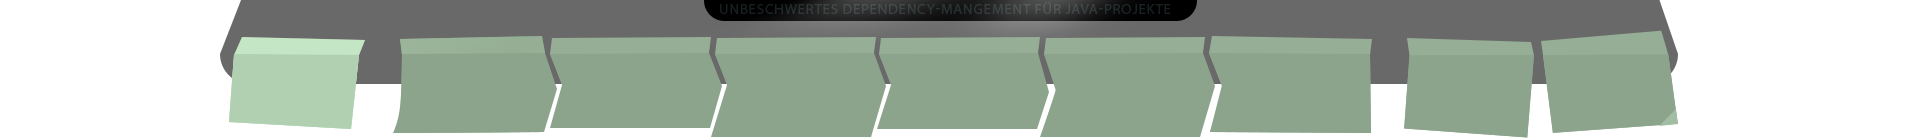
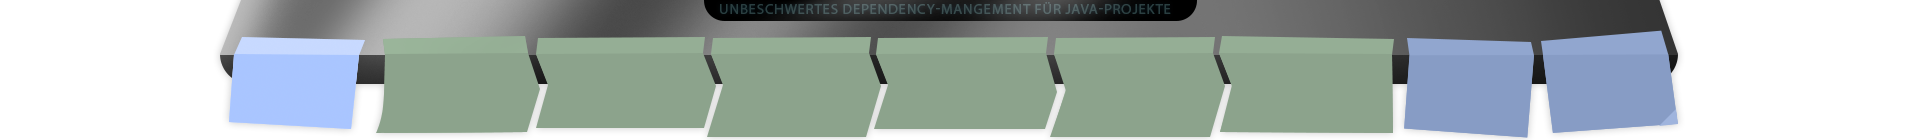
Updated assets

diff --git a/docs/presentation/src/main/java/app/javarcade/presentation/App.java b/docs/presentation/src/main/java/app/javarcade/presentation/App.java
@@ -32,10 +32,13 @@ import javafx.stage.Stage;
 
 import static app.javarcade.presentation.data.JavarcadeProject.APP_ROOT_FOLDER;
 import static app.javarcade.presentation.data.JavarcadeProject.ASSET_LOCATION;
+import static app.javarcade.presentation.ui.UI.BOTTOM_START;
 import static app.javarcade.presentation.ui.UI.EDITOR_WIDTH;
 import static app.javarcade.presentation.ui.UI.GRAPH_WIDTH;
 import static app.javarcade.presentation.ui.UI.HEIGHT;
-import static app.javarcade.presentation.ui.UI.SCREEN_DIM;
+import static app.javarcade.presentation.ui.UI.MIDDLE_CONTENT_HEIGHT;
+import static app.javarcade.presentation.ui.UI.MIDDLE_START;
+import static app.javarcade.presentation.ui.UI.APP_SCREEN_WIDTH;
 import static app.javarcade.presentation.ui.UI.SPACE;
 import static app.javarcade.presentation.ui.UI.TOOLS_WIDTH;
 import static app.javarcade.presentation.ui.UI.TREE_WIDTH;
@@ -48,33 +51,28 @@ public class App extends Application {
 
     @Override
     public void start(Stage stage) {
-        HBox topBox = new HBox(SPACE * 2);
-        topBox.setPrefWidth(WIDTH);
-        ScrollPane topScrollPane = applyScrollPaneStyle(new ScrollPane(topBox));
-        topScrollPane.setHbarPolicy(ScrollPane.ScrollBarPolicy.NEVER);
-        topScrollPane.setVbarPolicy(ScrollPane.ScrollBarPolicy.NEVER);
-        topScrollPane.setFitToHeight(true);
-        topScrollPane.setFitToWidth(false);
-
-        HBox topicsBox = new HBox(10);
-        topicsBox.setPadding(new Insets(SPACE, 0, 0, 0));
+        HBox topicsBox = new HBox(SPACE * 0.5);
         topicsBox.setAlignment(Pos.CENTER);
-        topicsBox.setPrefHeight(140);
+
+        HBox middleBox = new HBox(SPACE * 2);
+        middleBox.setPrefWidth(WIDTH);
+        ScrollPane middleScrollPane = applyScrollPaneStyle(new ScrollPane(middleBox));
+        middleScrollPane.setHbarPolicy(ScrollPane.ScrollBarPolicy.NEVER);
+        middleScrollPane.setVbarPolicy(ScrollPane.ScrollBarPolicy.NEVER);
+        middleScrollPane.setFitToHeight(true);
+        middleScrollPane.setFitToWidth(false);
 
         HBox bottomBox = new HBox(SPACE * 4);
-        VBox root = new VBox(topicsBox, topScrollPane, bottomBox);
-        topBox.setPadding(new Insets(10, SPACE * 3.5, SPACE, SPACE * 3.5));
-        bottomBox.setPadding(new Insets(SPACE * 0.5, SPACE * 10, SPACE, SPACE * 10));
 
         // Boxes in the top row (scrollable)
-        applicationBox = createBox(topBox, SCREEN_DIM, SCREEN_DIM, "APP SCREEN");
-        StackPane moduleGraphBox = createBox(topBox, GRAPH_WIDTH, SCREEN_DIM, "LIB");
-        StackPane projectStructureBox = createBox(topBox, TREE_WIDTH, SCREEN_DIM, "REPOSITORY");
-        StackPane editorsBox = createBox(topBox, EDITOR_WIDTH, SCREEN_DIM, "EDITOR");
+        applicationBox = createBox(middleBox, APP_SCREEN_WIDTH, MIDDLE_CONTENT_HEIGHT, "APP SCREEN");
+        StackPane moduleGraphBox = createBox(middleBox, GRAPH_WIDTH, MIDDLE_CONTENT_HEIGHT, "LIB");
+        StackPane projectStructureBox = createBox(middleBox, TREE_WIDTH, MIDDLE_CONTENT_HEIGHT, "REPOSITORY");
+        StackPane editorsBox = createBox(middleBox, EDITOR_WIDTH, MIDDLE_CONTENT_HEIGHT, "EDITOR");
 
         // Boxes in the bottom row
-        StackPane toolsBox = createBox(bottomBox, TOOLS_WIDTH - SPACE * 4, 20, null);
-        StackPane terminalBox = createBox(bottomBox, 1000, 20, null);
+        StackPane toolsBox = createBox(bottomBox, TOOLS_WIDTH - SPACE * 4, 0, null);
+        StackPane terminalBox = createBox(bottomBox, 1120, 0, null);
 
         ImageView slideView = new ImageView();
         slideView.setFitWidth(1800);
@@ -93,6 +91,20 @@ public class App extends Application {
                 new TopicList(topicsBox, JavarcadeProject.topics(), slideView)
         );
 
+        var root = new StackPane(topicsBox, middleScrollPane, bottomBox);
+        root.setPrefHeight(HEIGHT);
+
+        StackPane.setMargin(middleScrollPane, new Insets(MIDDLE_START, 0, 0, 0));
+        StackPane.setMargin(bottomBox, new Insets(BOTTOM_START, 0, 0, 0));
+
+        middleBox.setPadding(new Insets(5, SPACE * 3.5, 0, SPACE * 3.5));
+        bottomBox.setPadding(new Insets(SPACE, SPACE * 10, 2 * SPACE, SPACE * 10));
+
+        UI.mainBG(root);
+        UI.topicsBG(topicsBox);
+        UI.windowsBG(middleBox);
+        UI.terminalBG(bottomBox);
+
         Scene scene = scalableScene(root, slideView);
         scene.setOnKeyPressed(e -> {
             if (e.getCode() == KeyCode.X) {
@@ -103,21 +115,13 @@ public class App extends Application {
                 }
             }
         });
-
-        root.setPrefHeight(HEIGHT);
-
-        UI.mainBG(root);
-        UI.topicsBG(topicsBox);
-        UI.windowsBG(topBox);
-        UI.terminalBG(bottomBox);
-
         stage.setTitle("Java Modularity");
         stage.setScene(scene);
         stage.setFullScreen(true);
         stage.show();
     }
 
-    private Scene scalableScene(VBox root, ImageView slideView) {
+    private Scene scalableScene(Pane root, ImageView slideView) {
         StackPane pane = new StackPane(root, slideView);
         Group scalableGroup = new Group(pane);
         Scene scene = new Scene(scalableGroup, WIDTH, HEIGHT, Color.BLACK);
@@ -153,7 +157,9 @@ public class App extends Application {
     private StackPane createBox(Pane parent, double width, double height, String label) {
         StackPane inner = new StackPane();
         inner.setPrefWidth(width);
-        inner.setPrefHeight(height);
+        if (height > 0) {
+            inner.setPrefHeight(height);
+        }
 
         Rectangle rectangle = new Rectangle(width, height, Color.TRANSPARENT);
         StackPane stackPane = new StackPane(rectangle, inner);
@@ -165,7 +171,7 @@ public class App extends Application {
             Text labelText = new Text(label);
             labelText.setFont(Font.font("Monospaced", FontWeight.BOLD, 24));
             labelText.setFill(Color.DARKKHAKI);
-            VBox boxWithLabel = new VBox(SPACE * 1.2, labelText, stackPane);
+            VBox boxWithLabel = new VBox(SPACE * 0.5, labelText, stackPane);
             boxWithLabel.setAlignment(Pos.TOP_CENTER);
             parent.getChildren().add(boxWithLabel);
         }

diff --git a/docs/presentation/src/main/java/app/javarcade/presentation/ui/UI.java b/docs/presentation/src/main/java/app/javarcade/presentation/ui/UI.java
@@ -16,11 +16,15 @@ public interface UI {
     int HEIGHT = 1080;
     int SPACE = 20;
 
-    int SCREEN_DIM = 600;
+    int MIDDLE_START = 145;
+    int BOTTOM_START = MIDDLE_START + 680;
+    int MIDDLE_CONTENT_HEIGHT = 625;
+
+    int APP_SCREEN_WIDTH = 600;
     int TOOLS_WIDTH = 300;
     int TREE_WIDTH = 580;
     int GRAPH_WIDTH = 660;
-    int EDITOR_WIDTH = 800;
+    int EDITOR_WIDTH = 880;
 
     static <T extends Node> T applyScrollPaneStyle(T pane) {
         pane.setStyle("-fx-background-color: transparent;" +
@@ -49,7 +53,7 @@ public interface UI {
     }
 
     static void mainBG(Region main) {
-        Image bgImage = layoutImage("bg");
+        Image bgImage = layoutImage("bg.jpg");
         BackgroundImage backgroundImage = new BackgroundImage(
                 bgImage,
                 BackgroundRepeat.NO_REPEAT,
@@ -61,7 +65,7 @@ public interface UI {
     }
 
     static void topicsBG(Region main) {
-        Image bgImage = layoutImage("topics");
+        Image bgImage = layoutImage("topics.png");
         BackgroundImage backgroundImage = new BackgroundImage(
                 bgImage,
                 BackgroundRepeat.NO_REPEAT,
@@ -73,7 +77,7 @@ public interface UI {
     }
 
     static void terminalBG(Region main) {
-        Image bgImage = layoutImage("terminal");
+        Image bgImage = layoutImage("terminal.png");
         BackgroundImage backgroundImage = new BackgroundImage(
                 bgImage,
                 BackgroundRepeat.NO_REPEAT,
@@ -85,7 +89,7 @@ public interface UI {
     }
 
     static void windowsBG(Region main) {
-        Image bgImage = layoutImage("windows");
+        Image bgImage = layoutImage("windows.png");
         BackgroundImage backgroundImage = new BackgroundImage(
                 bgImage,
                 BackgroundRepeat.NO_REPEAT,
@@ -97,6 +101,6 @@ public interface UI {
     }
 
     private static Image layoutImage(String name) {
-        return new Image("file:%s/%s.png".formatted(ASSET_LOCATION.resolve("layout"), name));
+        return new Image("file:%s/%s".formatted(ASSET_LOCATION.resolve("layout"), name));
     }
 }

diff --git a/docs/presentation/src/main/java/app/javarcade/presentation/components/ApplicationScreen.java b/docs/presentation/src/main/java/app/javarcade/presentation/components/ApplicationScreen.java
@@ -1,5 +1,6 @@
 package app.javarcade.presentation.components;
 
+import javafx.geometry.Pos;
 import javafx.scene.image.Image;
 import javafx.scene.image.ImageView;
 import javafx.scene.layout.StackPane;
@@ -17,6 +18,7 @@ public record ApplicationScreen(ImageView screenshot) {
         imageView.setPreserveRatio(true);
         imageView.setFitWidth(box.getPrefWidth());
         imageView.setFitHeight(box.getPrefHeight());
+        box.setAlignment(Pos.CENTER);
         box.getChildren().add(imageView);
         return imageView;
     }

diff --git a/docs/presentation/src/main/java/app/javarcade/presentation/components/model/Module.java b/docs/presentation/src/main/java/app/javarcade/presentation/components/model/Module.java
@@ -46,7 +46,7 @@ public record Module(String jarName, int columnIndex, int rowIndex, Set<String> 
         text.setWrappingWidth(84);
 
         StackPane textWrapper = new StackPane(text);
-        textWrapper.setPadding(new Insets(0, 0 , 0, 60));
+        textWrapper.setPadding(new Insets(0, 0 , 22, 60));
         StackPane box = new StackPane(iconView, textWrapper);
         box.setAlignment(Pos.CENTER_RIGHT);
         return box;

diff --git a/docs/presentation/src/main/java/app/javarcade/presentation/components/ModuleGraph.java b/docs/presentation/src/main/java/app/javarcade/presentation/components/ModuleGraph.java
@@ -27,7 +27,7 @@ public record ModuleGraph(Set<Module> modules, Text label) {
 
         GridPane grid = new GridPane();
         Pane overlay = new Pane();
-        grid.setPadding(new Insets(SPACE * 0.8, 0, 0, SPACE * 3));
+        grid.setPadding(new Insets(SPACE * 1.7, 0, 0, SPACE * 3));
         grid.setHgap(10);
         grid.setVgap(25);
         overlay.setPickOnBounds(false); // mouse events pass through

diff --git a/docs/presentation/src/main/java/app/javarcade/presentation/components/ToolsGrid.java b/docs/presentation/src/main/java/app/javarcade/presentation/components/ToolsGrid.java
@@ -22,7 +22,6 @@ public record ToolsGrid(ImageView jpmsButton,
         GridPane grid = new GridPane();
         grid.setHgap(40);
         grid.setVgap(20);
-        grid.setPadding(new Insets(10));
 
         grid.add(jpmsButton, 0, 0);
         grid.add(renovateButton, 1, 0);
